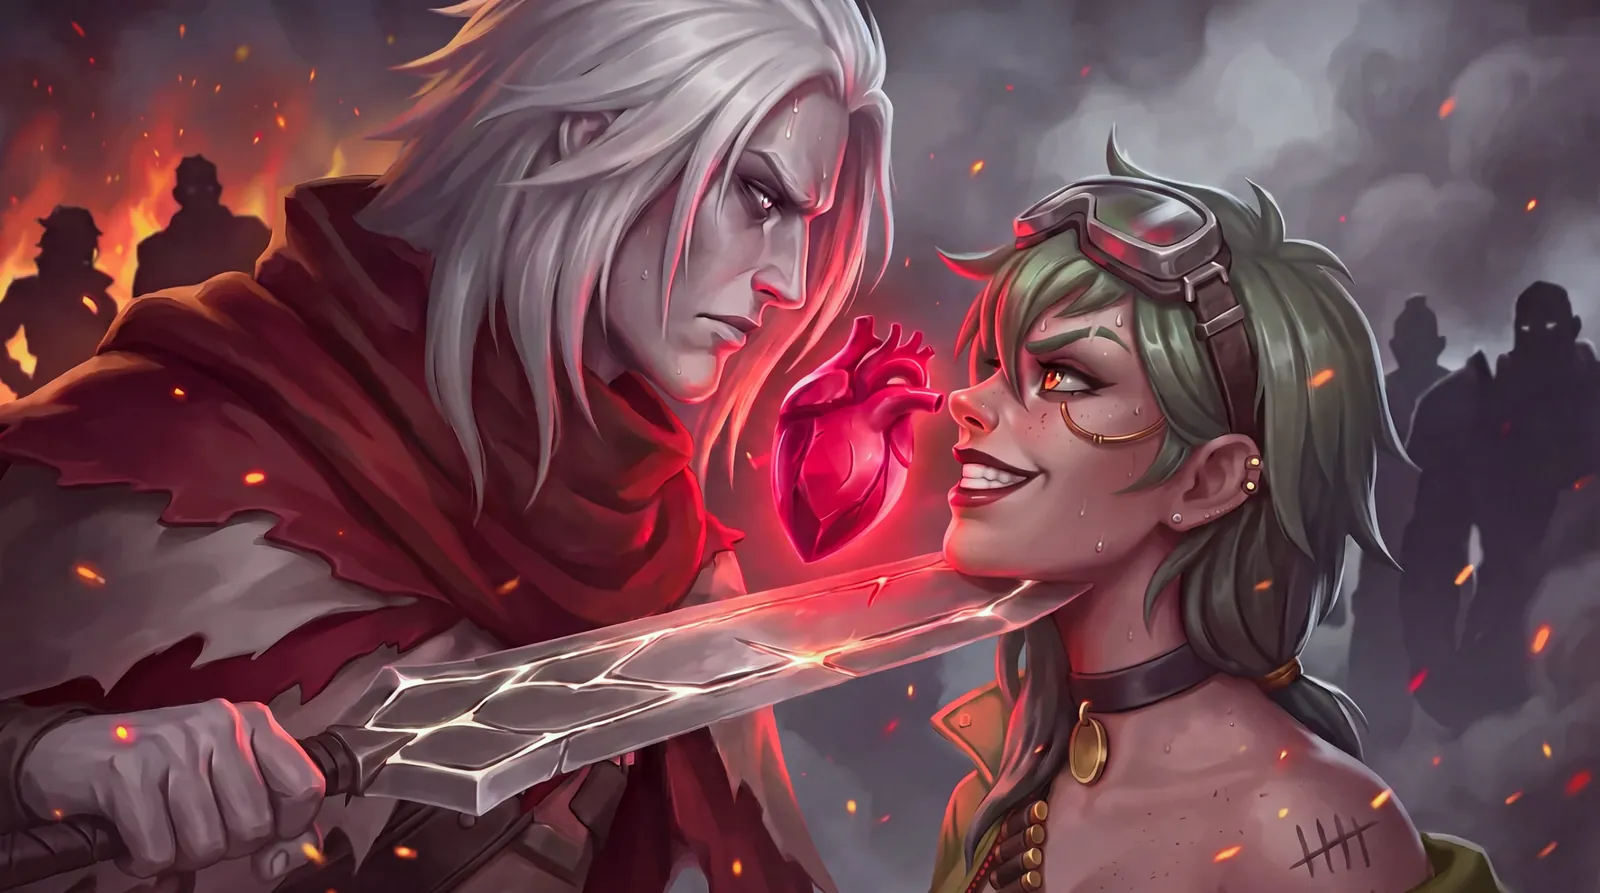
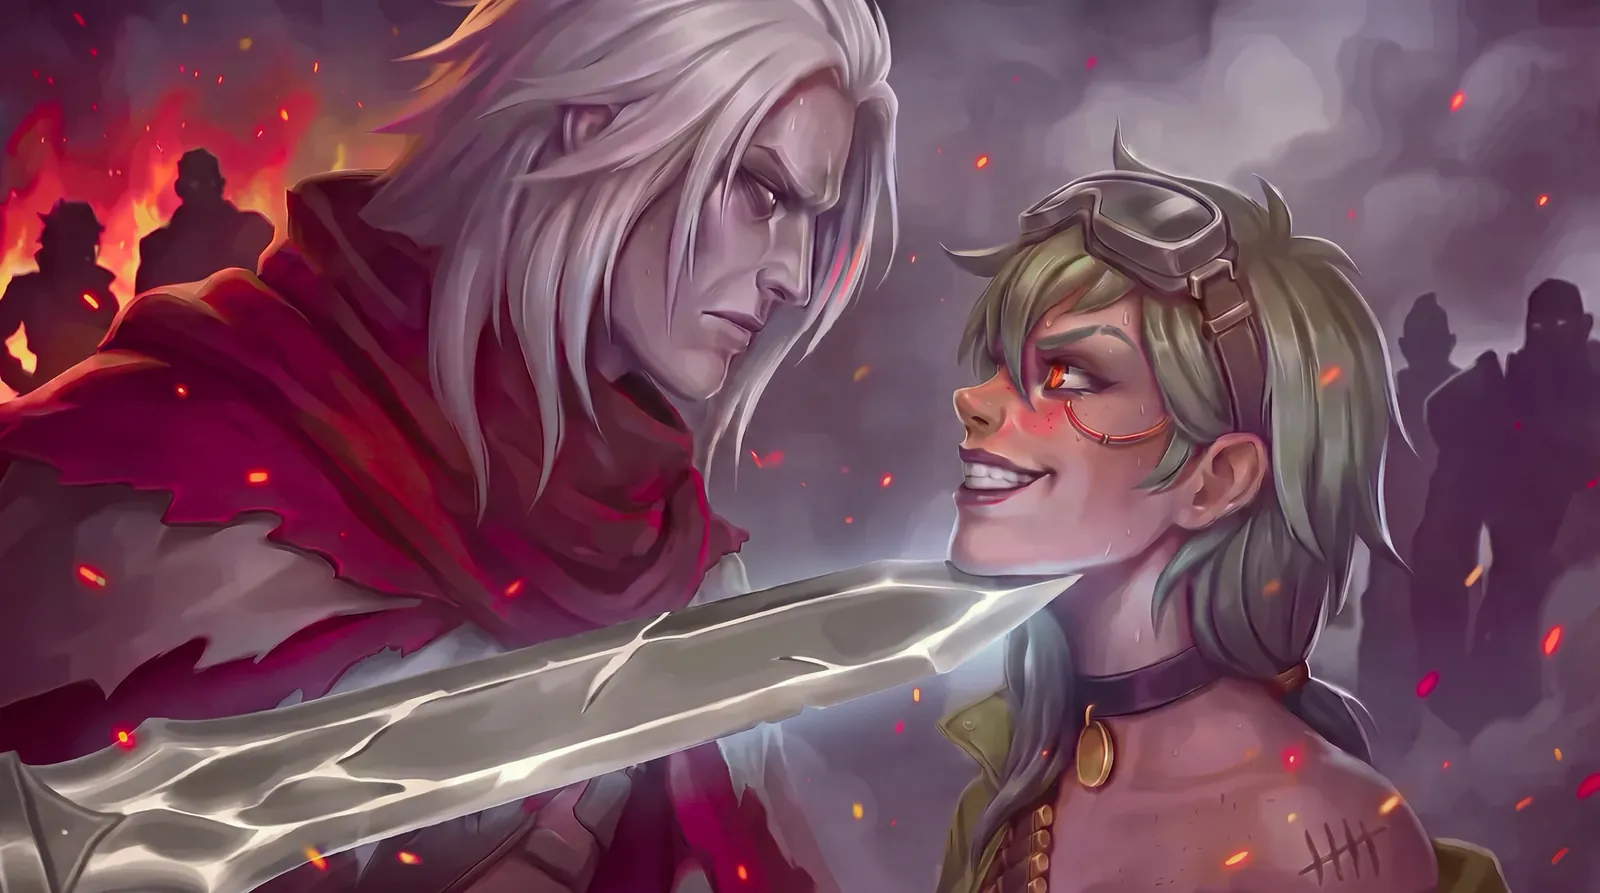
Kael and Vex art: updated version
Claude-Session: https://claude.ai/code/session_015vSSPmpJoF22Rm1LS1od6V

diff --git a/index.html b/index.html
@@ -148,7 +148,7 @@
     <article class="step" style="--i:2">
       <div class="step-card">
         <!-- Media slot: swap this image for a gameplay clip, e.g. <video src="assets/video/get-out.mp4" autoplay muted loop playsinline></video> -->
-        <div class="step-media" data-clip="get-out"><img data-full="assets/img/lore/rivals-2400.webp" src="assets/img/lore/rivals-1600.webp" srcset="assets/img/lore/rivals-960.webp 960w, assets/img/lore/rivals-1600.webp 1600w, assets/img/lore/rivals-2400.webp 2400w" sizes="(max-width: 1400px) 100vw, 1340px" width="2576" height="1438" style="object-position: 50% 40%" alt="Kael holds his blade to Vex's throat over a glowing heart" loading="lazy" decoding="async"></div>
+        <div class="step-media" data-clip="get-out"><img data-full="assets/img/lore/rivals-2400.webp" src="assets/img/lore/rivals-1600.webp" srcset="assets/img/lore/rivals-960.webp 960w, assets/img/lore/rivals-1600.webp 1600w, assets/img/lore/rivals-2400.webp 2400w" sizes="(max-width: 1400px) 100vw, 1340px" width="2576" height="1438" style="object-position: 50% 40%" alt="Kael holds his blade to Vex's throat" loading="lazy" decoding="async"></div>
         <div class="step-text">
           <p class="step-n">03</p>
           <h3>Get out alive.</h3>

diff --git a/presskit.html b/presskit.html
@@ -54,7 +54,7 @@
         <h2>Key art</h2>
         <a class="pk-key" href="assets/img/lore/throne-2400.webp" target="_blank"><img src="assets/img/lore/throne-1600.webp" width="2576" height="1438" alt="Hunters at the broken throne" loading="lazy"></a>
         <a class="pk-key" href="assets/img/lore/squad-2400.webp" target="_blank"><img src="assets/img/lore/squad-1600.webp" width="2576" height="1438" alt="Albert, Meeko, Grimble and Neve against Motley" loading="lazy"></a>
-        <a class="pk-key" href="assets/img/lore/rivals-2400.webp" target="_blank"><img src="assets/img/lore/rivals-1600.webp" width="2576" height="1438" alt="Kael holds his blade to Vex over a glowing heart" loading="lazy"></a>
+        <a class="pk-key" href="assets/img/lore/rivals-2400.webp" target="_blank"><img src="assets/img/lore/rivals-1600.webp" width="2576" height="1438" alt="Kael holds his blade to Vex's throat" loading="lazy"></a>
         <h2>Screenshots</h2>
         <div class="pk-grid">
           <a href="assets/img/game/colossus-2560.webp" target="_blank"><img src="assets/img/game/colossus-1280.webp" alt="A squad fighting the Stone Colossus" loading="lazy"></a>
